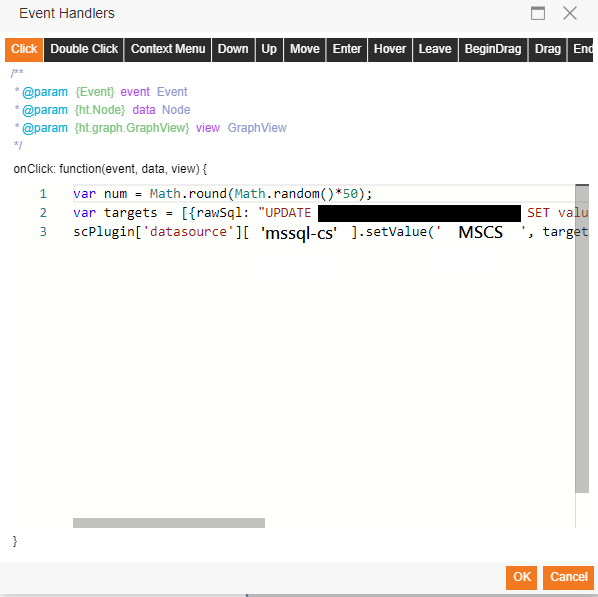
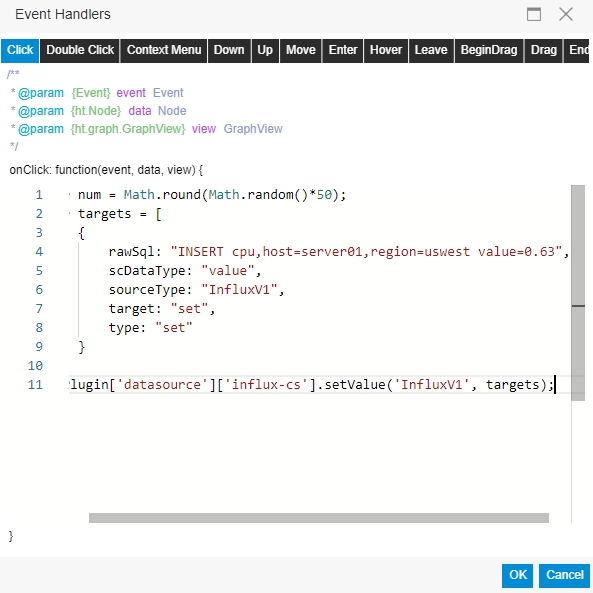
update plugin

diff --git a/influx-cs/dist/influx.js b/influx-cs/dist/influx.js
@@ -1,10 +1,10 @@
 (function(global) {
     if(global.scPlugin &&
         global.scPlugin.datasource &&
-        global.scPlugin.datasource["mssql-cs"]){
+        global.scPlugin.datasource["influx-cs"]){
         return;
     }
-    commonUtil.createObjFromString(global,'scPlugin.datasource.mssql-cs',{});
+    commonUtil.createObjFromString(global,'scPlugin.datasource.influx-cs',{});
 
     var datasource = {};
 
@@ -114,7 +114,7 @@
     datasource.getValue = function (sourceName, reqTargets, callback) {
         // console.log('getValue',sourceName, reqTargets);
 
-        var queryType = '/api/databaseSource/mssql/query';
+        var queryType = '/api/databaseSource/influx/query';
         var sourceList = dataSourceUtil.getSourceListByOrg();
         var orgId = parseInt(commonUtil.getParamFromURL('org_id'));
         reqTargets = reqTargets.map(function (item, index, array){
@@ -178,7 +178,7 @@
         var sourceInfo = dataSourceUtil.getSourceInfo(sourceName);
         var EIToken = commonUtil.getCookie("EIToken");
         var orgId = parseInt(commonUtil.getParamFromURL('org_id'));
-        var queryType = '/api/databaseSource/mssql/query';
+        var queryType = '/api/databaseSource/influx/query';
         reqTargets = reqTargets.map(function (item, index, array){
             item.rawSql = dataRefreshUtil.variableSrv.replaceWithText(item.rawSql);
             return item;
@@ -227,5 +227,5 @@
         }));
     }
     
-    global.scPlugin.datasource["mssql-cs"] = datasource;
+    global.scPlugin.datasource["influx-cs"] = datasource;
 })(this);

diff --git a/influx-cs/dist/source.js b/influx-cs/dist/source.js
@@ -71,7 +71,7 @@
         }
     }
 })("docReady", window);
-var compMssqlCs={
+var compInfluxV1Cs={
     template:`<el-form label-position="left" inline="" class="data-source-form" v-if="scopeRow.expand" data-v-e529bd94="">
    <el-form-item data-v-e529bd94="">
       <span class="title" data-v-e529bd94="">Connection</span>
@@ -111,7 +111,7 @@ var compMssqlCs={
      <el-button icon="el-icon-refresh" @click="checkSourceConnection(scopeRow)" data-v-e529bd94=""></el-button>
    </el-row>
 </el-form>`,
-  name: "compMssqlCs",
+  name: "compInfluxV1Cs",
   props: {
       langTrans: {
          type: Function
@@ -167,7 +167,7 @@ var compMssqlCs={
       }
       if(row && row.access == 'proxy' && row.json_data && row.json_data.sourceurl) {
         var localhostUrl  = row.json_data.sourceurl;
-        var proxyqueryType = '/api/databaseSource/mssql/connect';
+        var proxyqueryType = '/api/databaseSource/influx/connect';
         var xhttp = new XMLHttpRequest();
         xhttp.onreadystatechange = function() {
             if (this.readyState == 4 && this.status == 200) {
@@ -187,7 +187,7 @@ var compMssqlCs={
         xhttp.setRequestHeader('Content-type', 'application/json; charset=UTF-8');
       //   xhttp.send(JSON.stringify({'url': row.url}));
         xhttp.send(JSON.stringify({
-         'type':'postgres',
+         'type':'influx',
          'sourceurl':row.sourceurl,
          'url':row.url,
          'password':row.password,

diff --git a/README.md b/README.md
@@ -10,20 +10,23 @@
 - **URL** is database url.  
 - **Port** is database port.  
 - **DataBase** the database name.  
+- **Username** connect user name.  
+- **Password** connect user password.  
+
 
 ## Update data (setvalue)
 
     var num = Math.round(Math.random()*50);
     var targets = [
         {
-            rawSql: "UPDATE Table SET value = "+num+" WHERE c1 = 'Cheese'",
+            rawSql: "INSERT cpu,host=server01,region=uswest value=0.63",
             scDataType: "value",
-            sourceType: "MSCS",
+            sourceType: "InfluxV1",
             target: "set",
             type: "set"
         }
     ]
-    scPlugin['datasource']['mssql-cs'].setValue('MSCS', targets);
+    scPlugin['datasource']['influx-cs'].setValue('InfluxV1', targets);
 
 The first parameter in setValue is the data source name, Set in config page.  
 
@@ -37,14 +40,20 @@ Use click event trigger setValue function execute.
 
 - If variable name is **aaa**.  
 
-    var targets = [{rawSql: "UPDATE Table SET value = "+num+" WHERE c1 = '[[aaa]]'",scDataType: "value",sourceType: "postgres",target: "set",type: "set"}]
+    var targets = [{rawSql: "INSERT cpu,host=server01,region=uswest value='[[aaa]]'",scDataType: "value",sourceType: "postgres",target: "set",type: "set"}]
+
+## Data binding
+
+![setting](./readmeImg/databinding.png)
+
+![setting](./readmeImg/databinding_tableColumn.png)
 
 
 # Note  
 
 In Dockerfile Folder create Docker Image。
 
-    docker build . -t <your username>/saas-composer-mssql-dataserver
+    docker build . -t <your username>/saas-composer-influx-v1-dataserver
 
 Docker Images
 
@@ -53,8 +62,8 @@ Docker Images
     # Example
     REPOSITORY                      TAG        ID              CREATED
     node                            12         1934b0b038d1    5 days ago
-    <your username>/saas-composer-mssql-dataserver    latest     d64d3505b0d2    1 minute ago
+    <your username>/saas-composer-influx-v1-dataserver    latest     d64d3505b0d2    1 minute ago
 
 Docker RUN:   
 
-    docker run -p 49160:3500 -d <your username>/saas-composer-mssql-dataserver
+    docker run -p 49160:3500 -d <your username>/saas-composer-influx-v1-dataserver
